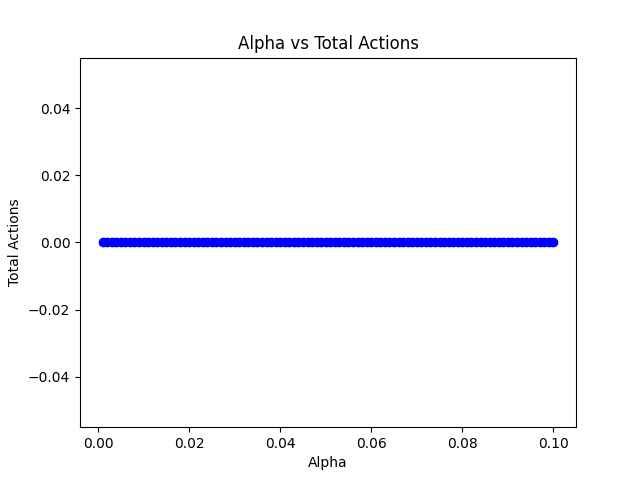
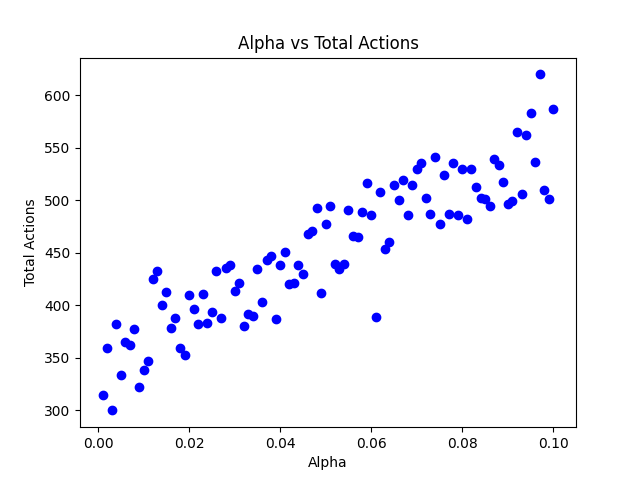
done

diff --git a/LeakBot7.py b/LeakBot7.py
@@ -382,7 +382,7 @@ def Bot7(width, ROWS, square, ALPHA):
     may_contain_leak, random_bot, random_leak, random_leak2 = make_ship(
         lambda: draw(win, grid, ROWS, width), grid, ROWS, square=square)
 
-    may_contain_leak = may_contain_leak - {random_bot}
+    # may_contain_leak = may_contain_leak - {random_bot}
 
     start = random_bot
 
@@ -401,10 +401,12 @@ def Bot7(width, ROWS, square, ALPHA):
             # key is position of cell j we want to calculate updated probability for
             # key 2 is position of every other cell j', used for summation stored in denom
             denom = 1 - probability_matrix[bot_location]
-            # if denom != 0 and not math.isinf(denom):
-            probability_matrix[key] = probability_matrix[key] / denom
+            try:
+                probability_matrix[key] = probability_matrix[key] / denom
+            except:
+                return False, probability_matrix
         probability_matrix[bot_location] = 0
-        return probability_matrix
+        return True, probability_matrix
 
     def beep_probability_update(probability_matrix, bot_location):
         probability_matrix[bot_location] = 0
@@ -493,6 +495,12 @@ def Bot7(width, ROWS, square, ALPHA):
             while (counter < 2):
                 # for _ in range(100):
                 # print(sum(probabilities.values()))
+                works, probabilities = bot_enters_cell_probability_update(
+                    probabilities, start.get_pos())
+                if not works:
+                    return total_actions
+                    time = False
+                    run = False
 
                 # Find next spot to explore
                 sense_again = all(not i.is_path() for i in start.neighbors)
@@ -626,10 +634,14 @@ def Bot7(width, ROWS, square, ALPHA):
                         start = i
                         # print(start.get_pos())
 
-                        probabilities = bot_enters_cell_probability_update(
+                        works, probabilities = bot_enters_cell_probability_update(
                             probabilities, start.get_pos())
+                        if not works:
+                            time = False
+                            run = False
+                            return total_actions
                         # print("reached")
-                        probabilities[start.get_pos()] = 0
+                        # probabilities[start.get_pos()] = 0
                         total_actions += 1
                 # pygame.time.delay(1000)
                 # draw(win, grid, ROWS, width)
@@ -667,14 +679,13 @@ def run_bot3(alpha):
     ROWS = 30
     total_actions = 0
     count = 0
-    for i in range(1500):
+    for i in range(500):
         try:
             total_actions += Bot7(WIDTH, ROWS, 3, alpha)
         except Exception as e:
             print(f"Error in execution for alpha={alpha}: {e}", flush=True)
             traceback.print_exc()
             print("SKLDJFHLSDFH", flush=True)
-            return 0
             count -= 1
         count += 1
         print(count, flush=True)
@@ -687,7 +698,7 @@ def run_bot3(alpha):
 def main():
     success = defaultdict(int)
     alphas = [i / 1000 for i in range(1, 101)]
-    with ProcessPoolExecutor(max_workers=10) as executor:
+    with ProcessPoolExecutor(max_workers=5) as executor:
 
         futures = {executor.submit(run_bot3, alpha): alpha for alpha in alphas}
         count = 0

diff --git a/LeakBot3 copy.py b/LeakBot3 copy.py
@@ -557,7 +557,7 @@ def run_bot3(alpha):
     ROWS = 30
     total_actions = 0
     count = 0
-    for i in range(750):
+    for i in range(500):
         try:
             total_actions += Bot3(WIDTH, ROWS, 3, alpha)
         except Exception as e:
